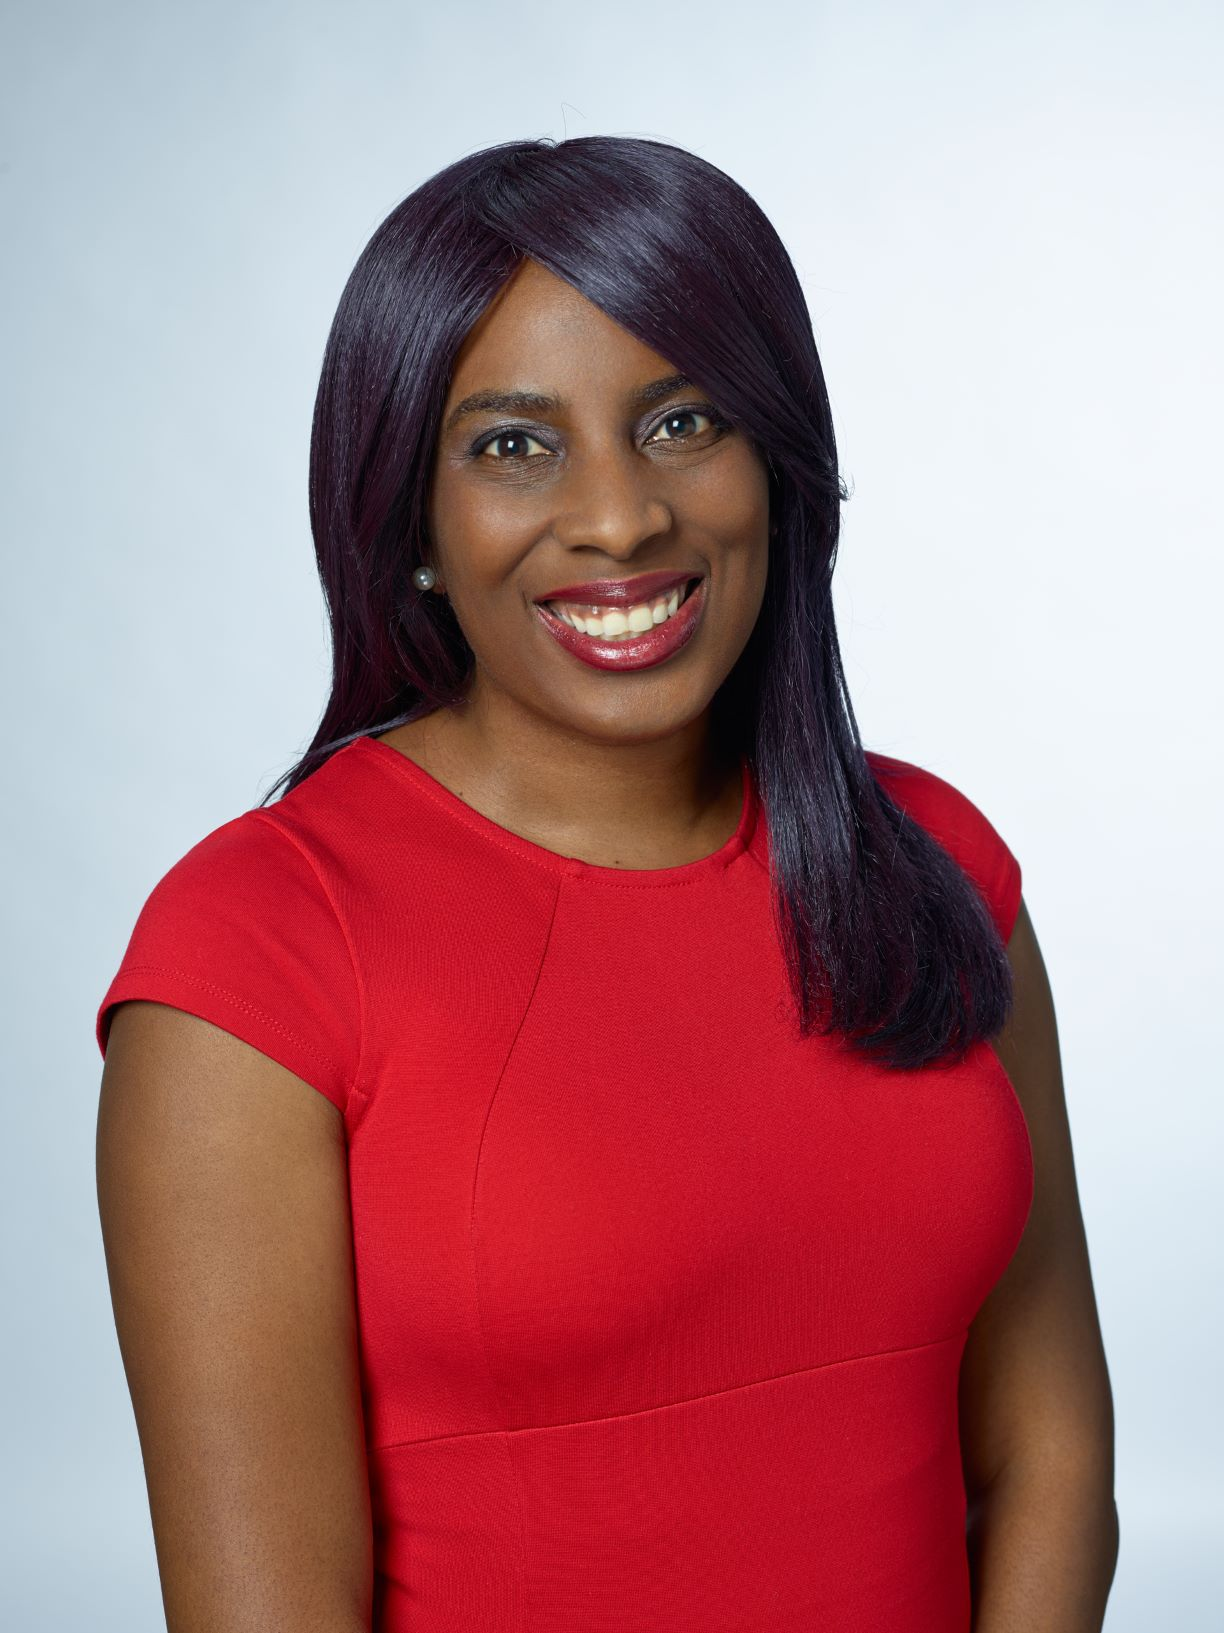
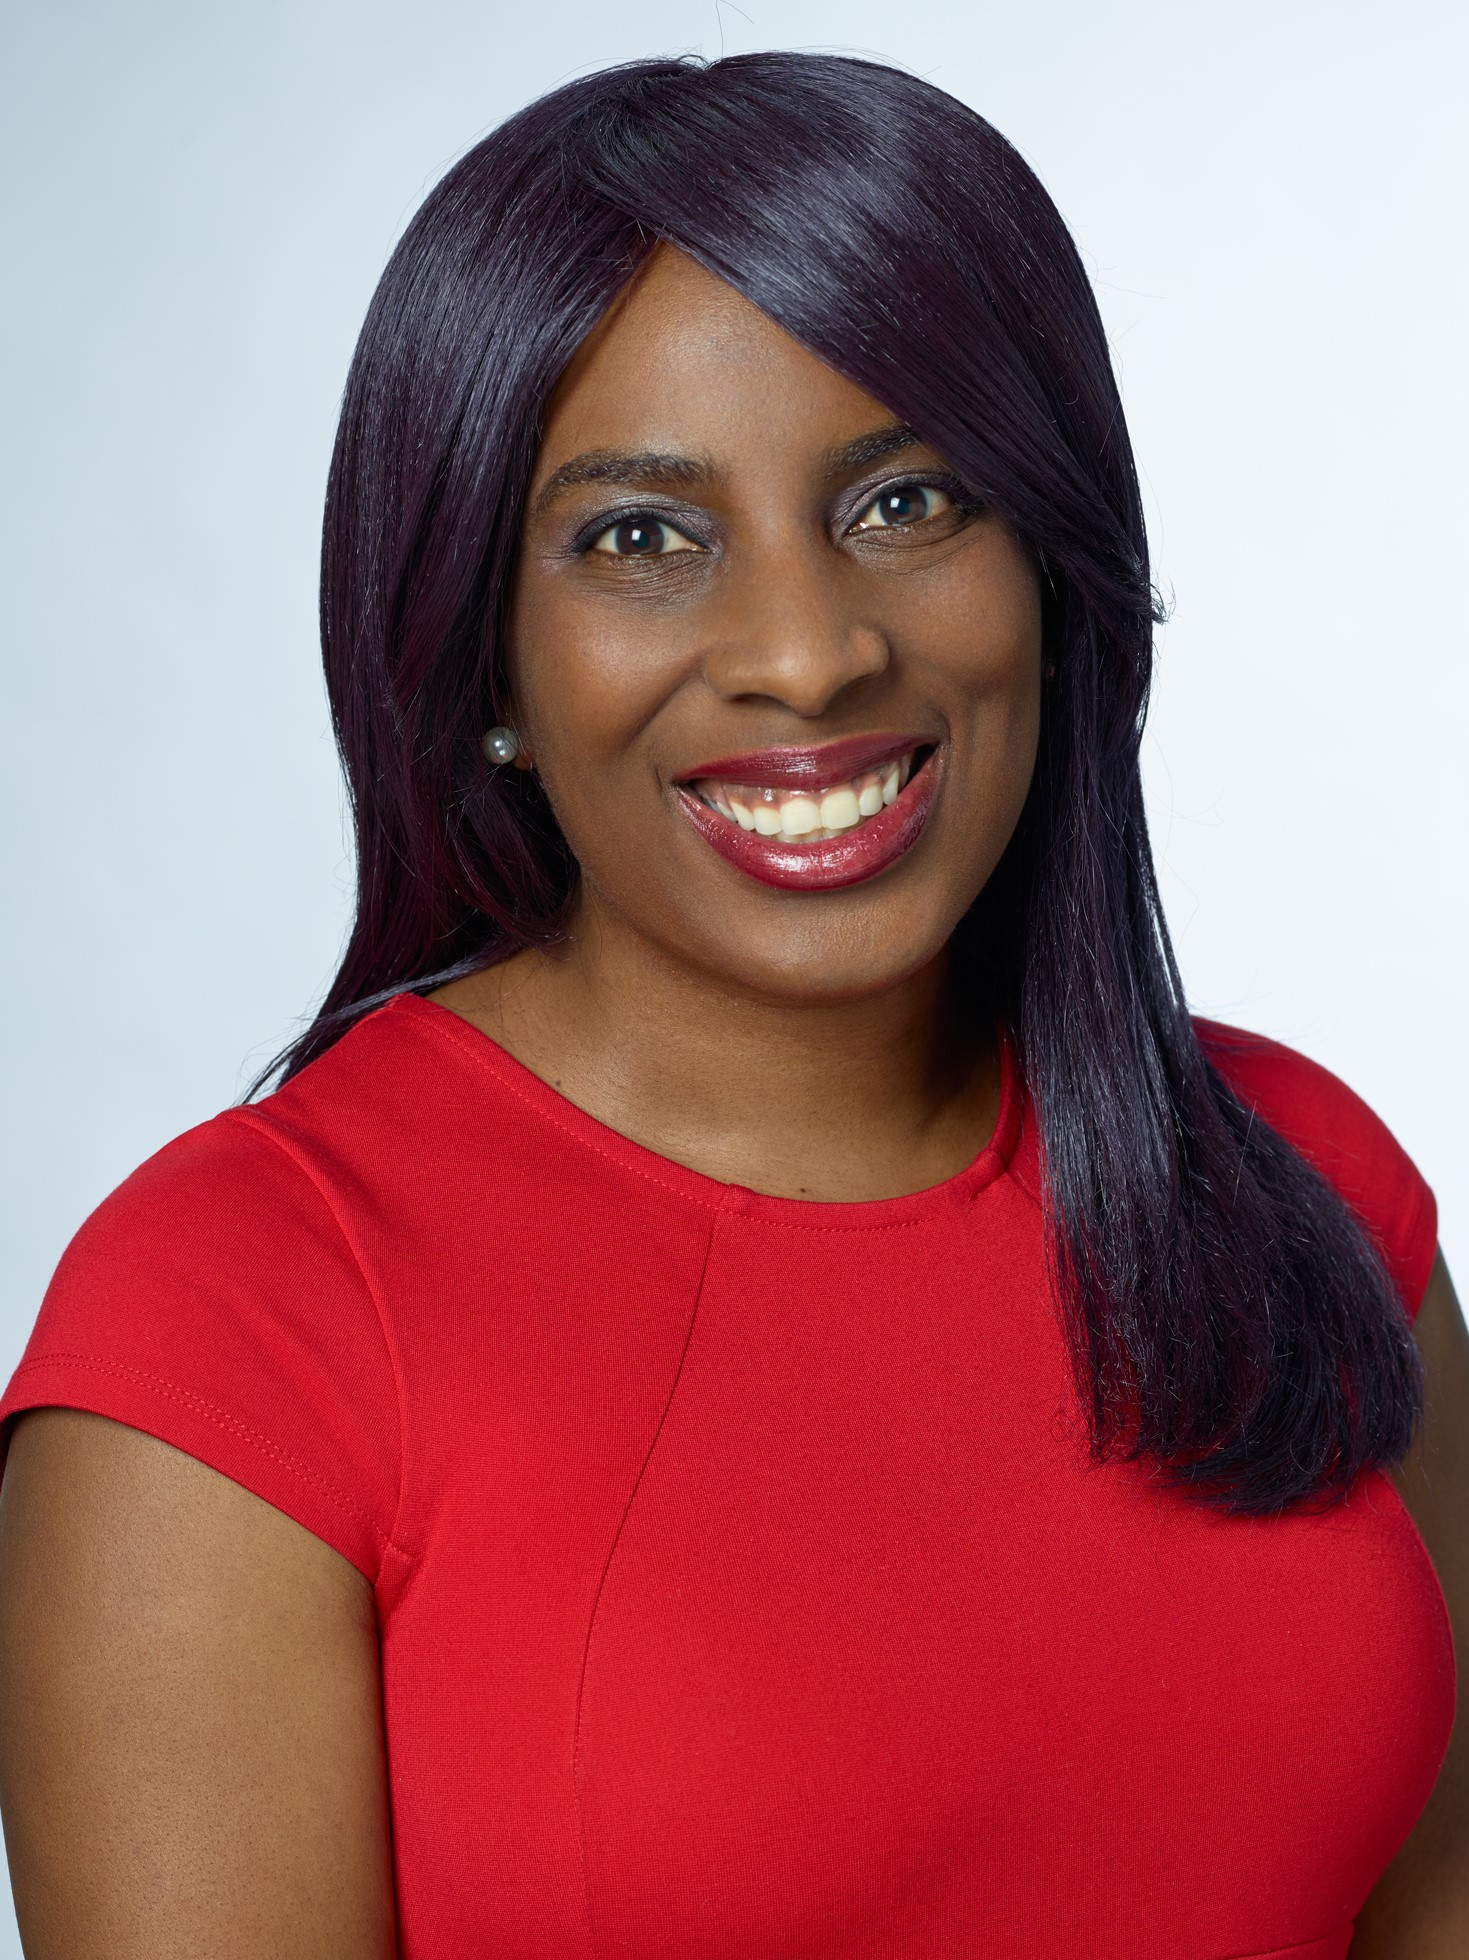
add bios

diff --git a/public/event/6_panel/index.html b/public/event/6_panel/index.html
@@ -107,10 +107,10 @@
 
 <p>Bio forthcoming</p>
 
-<h2 id="gloria-kimbwala">Gloria Kimbwala</h2>
+<h2 id="gloria-kimbwala-ms">Gloria Kimbwala, MS</h2>
 
 <p align="center">
-  <img src="../img/Kimbwala.jpg">
+  <img src="../../img/2019panel/Kimbwala.jpg" style="width: 30%; height: 30%">
 </p>
 
 <p>Gloria Kimbwala is CEO and founder of Shule, a startup that tokenizes international experiential
@@ -120,7 +120,7 @@ programs, and support they need to enter the technology industry. This includes 
 programs such as Square’s Code Camps, an immersion program that support college women
 pursuing careers in technology. She is passionate about making the blockchain ecosystem an
 inclusive and diverse space for all, including diversity of age, sexual orientation, ability, race,
-gender, and life experiences. Her hope is that all people will be encouraged to BUIDL solutions
+gender, and life experiences. Her hope is that all people will be encouraged to BUILD solutions
 that benefit their communities. She was recently named one of the Top Ten Women in Fintech
 by Fintech Ranking. Her non-traditional path into technology includes a bachelor&rsquo;s degree in
 Environmental Studies and a Master&rsquo;s degree in Computer Science. In her spare time, you can
@@ -129,7 +129,7 @@ find her coding with her sons.</p>
 <h2 id="melody-stapleton-phd">Melody Stapleton, PhD</h2>
 
 <p align="center">
-  <img src="../img/2019panel/stapleton.jpg">
+  <img src="../../img/2019panel/stapleton.jpg">
 </p>
 
 <p>Dean, College of Engineering, Computer Science, and Construction Management</p>
@@ -145,7 +145,7 @@ find her coding with her sons.</p>
 <h2 id="wendy-porter">Wendy Porter</h2>
 
 <p align="center">
-  <img src="../img/2019panel/Porter.jpg">
+  <img src="../../img/2019panel/Porter.jpeg">
 </p>
 
 <p>Wendy is the Managing Director of Chicostart and facilitator of growTECH our Northern CA tech industry partnership. She is also the CA Community Colleges Information Communications Technology Deputy Sector Navigator for the Far North CA region. Chicostart is a startup incubator located in Chico, CA. Chicostart has launched 14 startups in the past 4 years and created over 105 quality jobs while nurturing a cohesive platform of connectivity for tech businesses, Chico State, Butte College, investors, mentors, workforce, and economic development groups to interact and uplift the problem solvers and difference makers of tomorrow. Fostering the tech startup entrepreneurial ecosystem in Chico and Northern CA is a passion for Wendy and seeing the positive results is invigorating.</p>

diff --git a/public/event/index.html b/public/event/index.html
@@ -240,7 +240,7 @@ Girls Inc. of the Northern Sacramento Valley is all about empowering local girls
                                   Meet and hear from local women in Data Science and Technology.
 12:30 - 1:30 pm
 2019 Panelists Charlette Diagneault Bio forthcoming
-Gloria Kimbwala Gloria Kimbwala is CEO and founder of Shule, a startup that tokenizes international experiential learning systems in decentralized education. Previously to venturing out on her own, she was Square’s University Tech Evangelist where she focused on helping connect people to the tools, programs, and support they need to enter the technology industry.
+Gloria Kimbwala, MS Gloria Kimbwala is CEO and founder of Shule, a startup that tokenizes international experiential learning systems in decentralized education. Previously to venturing out on her own, she was Square’s University Tech Evangelist where she focused on helping connect people to the tools, programs, and support they need to enter the technology industry.
                                 
                             </p>
                           </div>

diff --git a/content/event/6_panel.md b/content/event/6_panel.md
@@ -17,10 +17,10 @@ Meet and hear from local women in Data Science and Technology.
 ## Charlette Diagneault
 Bio forthcoming
 
-## Gloria Kimbwala 
+## Gloria Kimbwala, MS
 
 <p align="center">
-  <img src="../img/Kimbwala.jpg">
+  <img src="../../img/2019panel/Kimbwala.jpg" style="width: 30%; height: 30%">
 </p>
 
 
@@ -31,19 +31,17 @@ programs, and support they need to enter the technology industry. This includes 
 programs such as Square’s Code Camps, an immersion program that support college women
 pursuing careers in technology. She is passionate about making the blockchain ecosystem an
 inclusive and diverse space for all, including diversity of age, sexual orientation, ability, race,
-gender, and life experiences. Her hope is that all people will be encouraged to BUIDL solutions
+gender, and life experiences. Her hope is that all people will be encouraged to BUILD solutions
 that benefit their communities. She was recently named one of the Top Ten Women in Fintech
 by Fintech Ranking. Her non-traditional path into technology includes a bachelor's degree in
 Environmental Studies and a Master's degree in Computer Science. In her spare time, you can
 find her coding with her sons.
 
 
-
-
 ## Melody Stapleton, PhD
 
 <p align="center">
-  <img src="../img/2019panel/stapleton.jpg">
+  <img src="../../img/2019panel/stapleton.jpg">
 </p>
 
 
@@ -58,12 +56,10 @@ She joined the faculty at Chico State in 1981 after receiving her PhD in Mathema
 She is passionate about facilitating the growth of junior faculty and building interdisciplinary partnerships between departments, colleges, and industry. 
 
 
-
-
-
 ## Wendy Porter
+
 <p align="center">
-  <img src="../img/2019panel/Porter.jpg">
+  <img src="../../img/2019panel/Porter.jpeg">
 </p>
 
 
